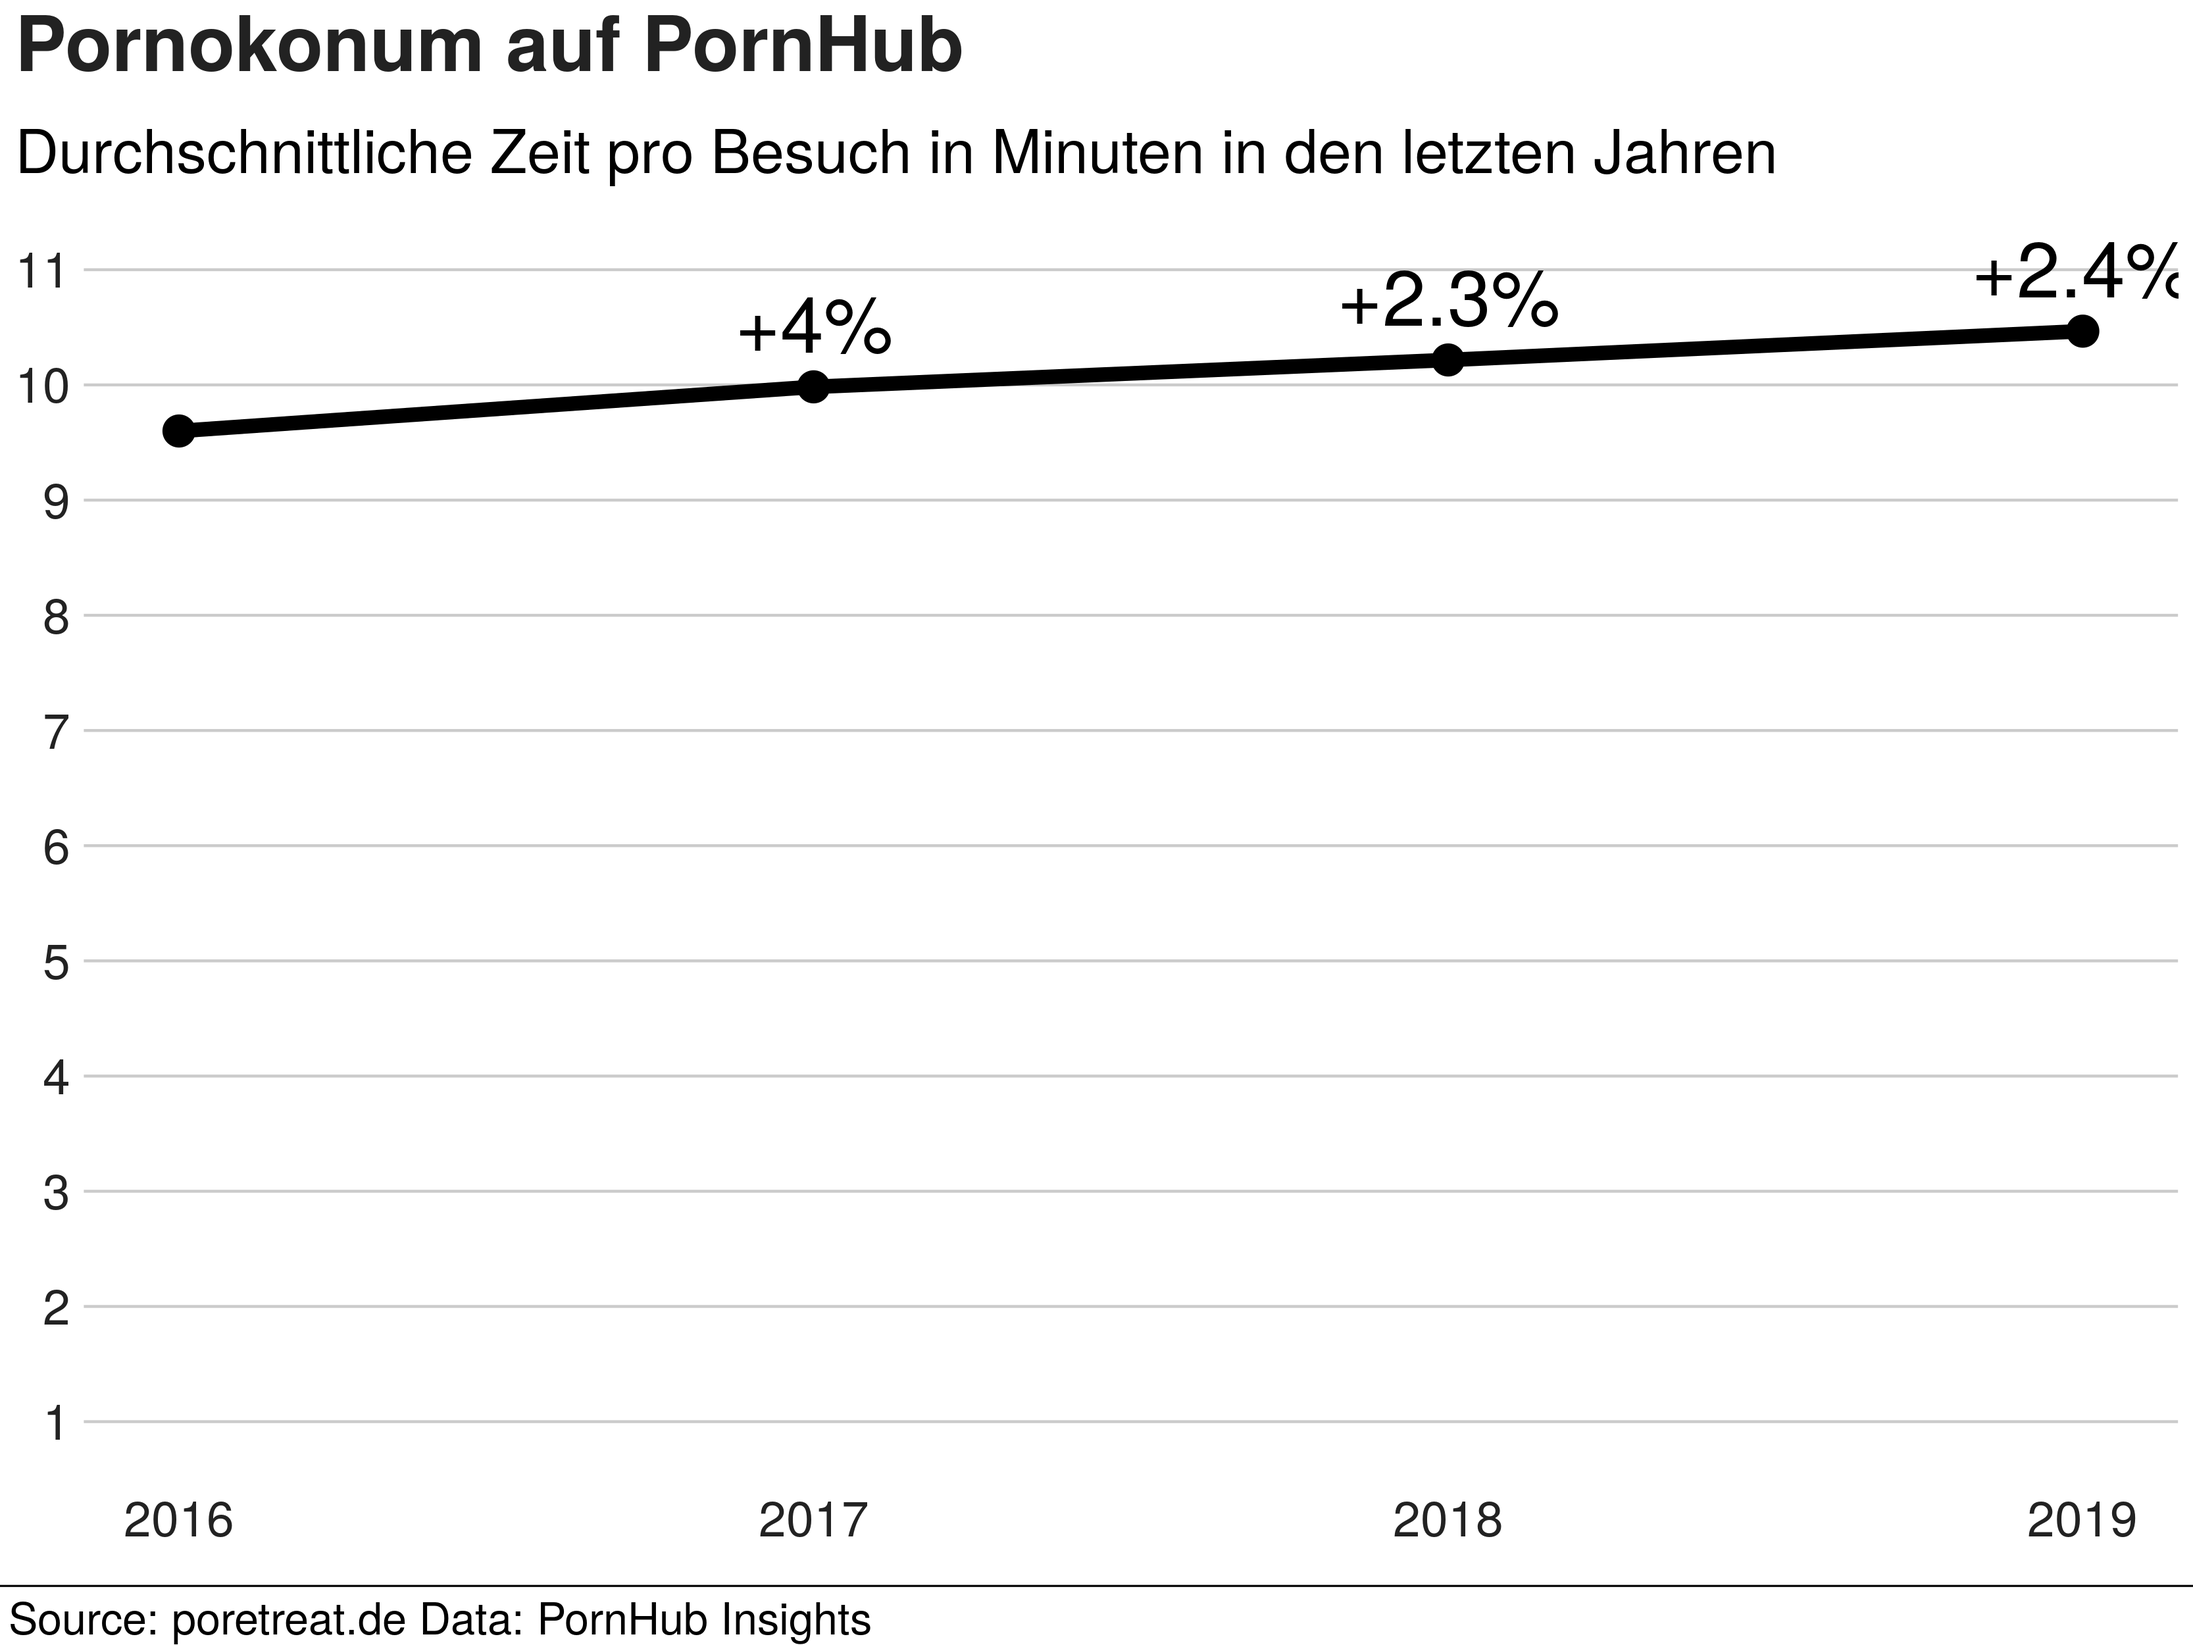
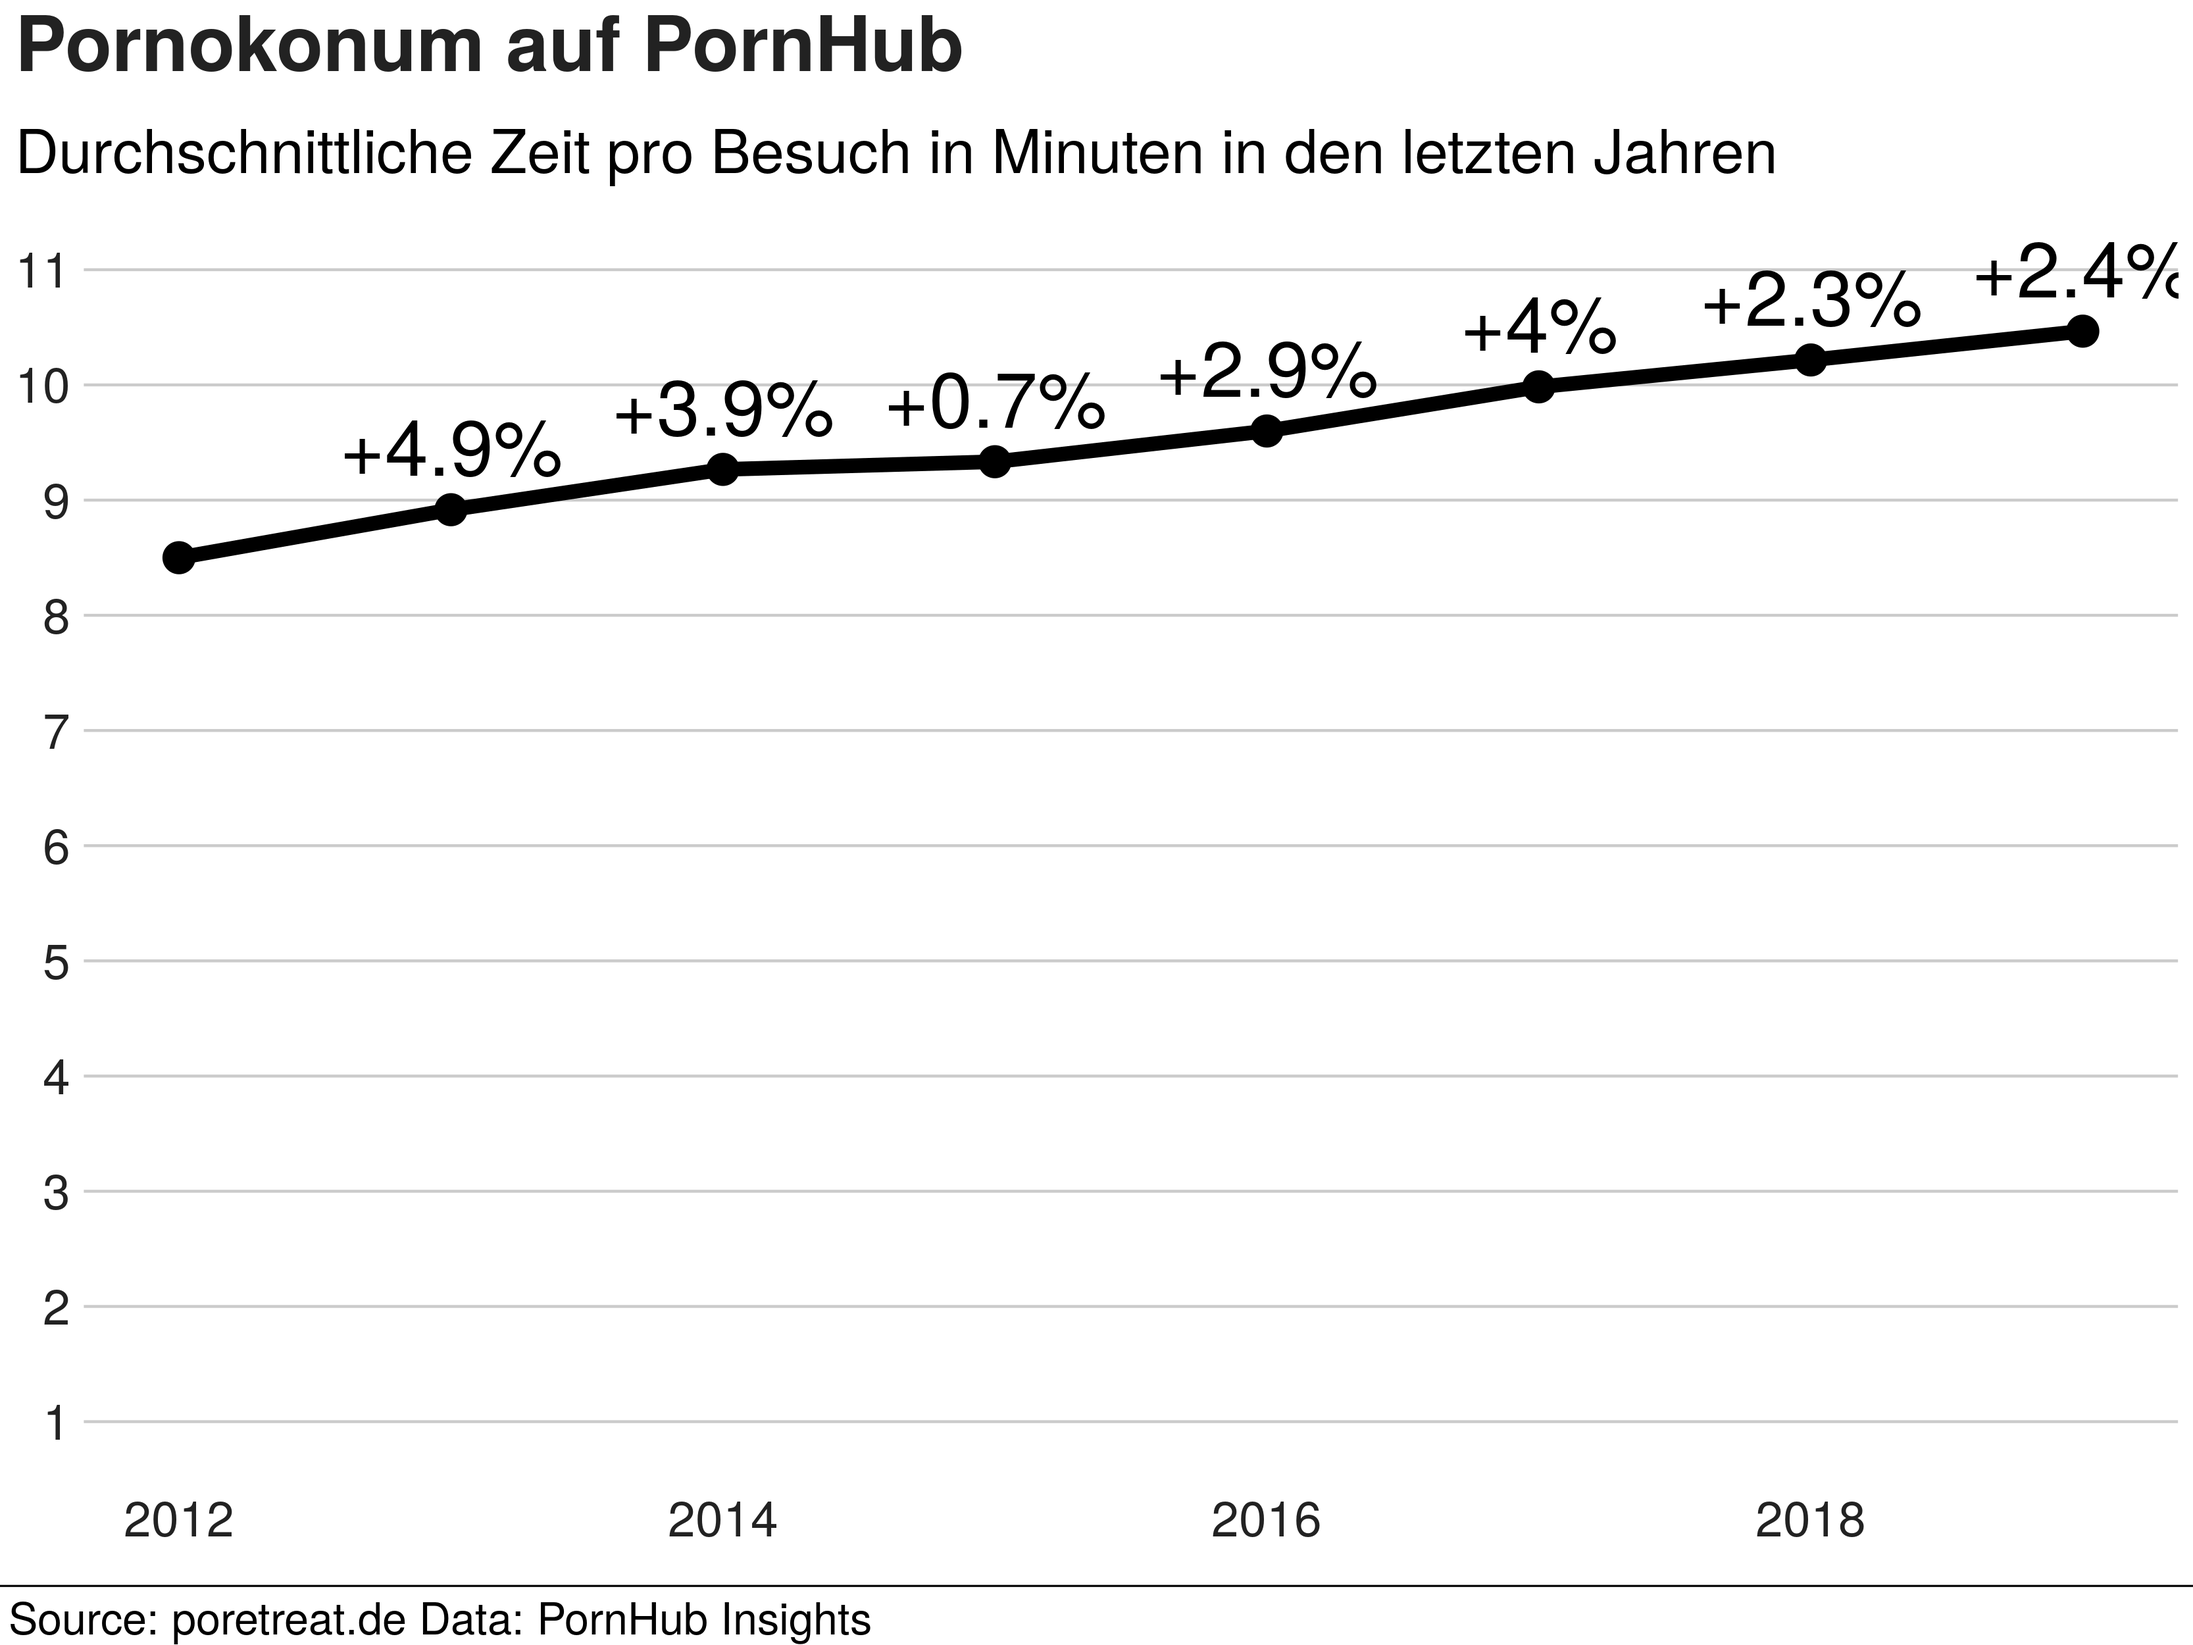
moved on

diff --git a/_posts/2020-04-07-einsichten-von-pornhub.md b/_posts/2020-04-07-einsichten-von-pornhub.md
@@ -5,13 +5,11 @@ image: "https://res.cloudinary.com/jenslaufer/image/upload/v1586325946/1-pornhub
 image_caption: "Source: PornHub Insights"
 ---
 
-Neben meiner Tätigkeit als Betreiber dieses Blogs bin ich u.a. Data Scientist tätig. In den Datenwissenschaften geht es darum nützliche Erkenntnisse aus Daten zu ziehen. In den letzten Tagen war ich deshalb im Web unterwegs, um
-Datensätze zu finden, die mir Einblicke bzgl des Konsums von "Nutzern" von Pornoseiten gewähren. Ich war besonders daran interessiert wieviele User übermäßig Pornos konsumieren. Leider konnte ich keine Rohdaten dazu finden, aber 
-ich habe einen interessante Subsektion des Pornoanbieter PornHub gefunden, der einer der größten Webseiten für pornografische Inhalte im Internet betreibt.
+Neben meiner Tätigkeit als Betreiber dieses Blogs bin ich u.a. als Data Scientist tätig. In den Datenwissenschaften geht es darum nützliche Erkenntnisse aus Daten zu ziehen. In den letzten Tagen war ich deshalb im Web unterwegs, um Datensätze zu finden, die mir Einblicke bzgl des Konsums von "Nutzern" von Pornoseiten gewähren. Ich war besonders daran interessiert wieviele User übermäßig Pornos konsumieren. Leider konnte ich keine Rohdaten dazu finden, aber ich habe eine interessante Subsektion des Pornoanbieter PornHub gefunden, der einer der größten Webseiten für pornografische Inhalte im Internet betreibt.
 
-PornHub betreibt ein Blog in dem sie Erkenntnisse aus ihren Millionen von Daten publizieren. So veröffentlichen sie Nutzungsstatistiken ihrer Seiten während z.B. großer Sportevents, Wahlen oder Feiertage.
-Am Ende des Jahres geben sie einen Bericht mit den Statistiken für das zurückliegende Jahr heraus. Bei der Durchsicht der Berichte bin ich darauf gestoßen, daß die durchschnittliche Zeit, die ein Besucher auf der Webseite verbringt in den letzten Jahren stets angestiegen ist. Der Anstieg beträgt zwar nur 2-4%, aber es jedes Jahr ein Anstieg. Die durchschnittliche Verweildauer beträgt um die 10 Minuten, was mir gar nicht so viel erscheint. Das ist gerade zu nichts, im Vergleich dazu wieviel Zeit ich verbracht habe. Bei mir waren es eher mehrere Stunden mehrmals die Woche. Die reine Durchschnittszeit sagt natürlich nichts aus. Mit der Verteilung könnten wir herausfinden wieviel Menschen ein Problem mit ihrem Pornokonsum haben.
+PornHub betreibt einen Blog in dem sie Erkenntnisse aus ihren Millionen von Daten publizieren. So veröffentlichen sie Nutzungsstatistiken ihrer Seiten während z.B. großer Sportevents, Wahlen oder Feiertage.
+Am Ende des Jahres geben sie einen Bericht mit den Statistiken für das zurückliegende Jahr heraus. Bei der Durchsicht der Berichte bin ich darauf gestoßen, daß die durchschnittliche Zeit, die ein Besucher auf der Webseite verbringt in den letzten Jahren stets angestiegen ist. Der Anstieg beträgt zwar nur 1-5 % pro Jahr, aber seit 2012 ist die Verweildauer um insgesamt 23 % angestiegen. Durchschnittlich bleiben die Besucher im Moment um die 10 Minuten, was mir nicht viel erscheint. Das ist gerade zu nichts, im Vergleich dazu wieviel Zeit ich verbracht habe. Bei mir waren es eher mehrere Stunden mehrmals die Woche. Die reine Durchschnittszeit sagt selbstverständlich nichts aus. Mit einer genauen Verteilung von regelmässigen Besuchern könnten wir herausfinden wieviel Menschen ein Problem mit ihrem Pornokonsum haben.
 
 ![Durchschnittliche Aufenthaltsdauer auf PornHub in Minuten](/assets/img/porn_hub_consumption.png)
 
-In diesem Zusammenhang wird es spannend wie sich die [Coronakrise](/blog/unsere_sucht_in_zeiten_der_coronakrise.html) auf die Aufenthaltsdauer 2020 auswirkt. 
+In diesem Zusammenhang wird es spannend wie sich die [Coronakrise](/blog/unsere_sucht_in_zeiten_der_coronakrise.html) auf die Aufenthaltsdauer 2020 auswirkt, wenn die Leute zu Hause bleiben müssen
